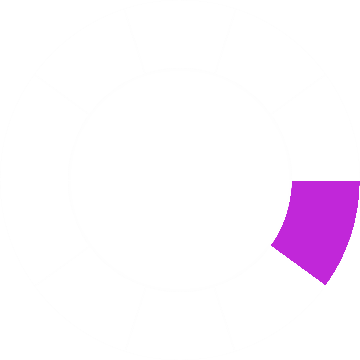
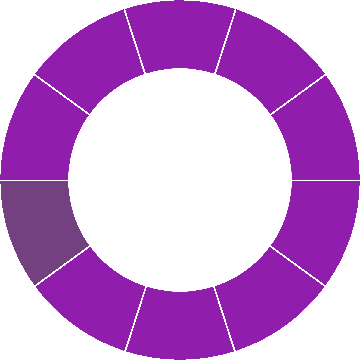
add images

diff --git a/src/view.c b/src/view.c
@@ -43,7 +43,7 @@ static struct view_info {
 	.timer = NULL,
 	.mouse_down_dial_num = -1,
 	.level = 0,
-	.total_level = 4
+	.total_level = 20
 };
 
 static struct level_info {
@@ -52,24 +52,89 @@ static struct level_info {
 } level_data[100] = {
 		{
 				.answer = 0,
-				.image = "lv1.png"
-		},
-		{
-				.answer = 1,
-				.image = "lv1.png"
+				.image = "0"
 		},
 		{
 				.answer = 2,
+				.image = "lv1.png"
+		},
+		{
+				.answer = 0,
 				.image = "lv2.png"
 		},
 		{
-				.answer = 3,
+				.answer = 7,
 				.image = "lv3.png"
 		},
 		{
-				.answer = 4,
+				.answer = 9,
 				.image = "lv4.png"
-		}
+		},
+		{
+				.answer = 3,
+				.image = "lv5.png"
+		},
+		{
+				.answer = 2,
+				.image = "lv6.png"
+		},
+		{
+				.answer = 9,
+				.image = "lv7.png"
+		},
+		{
+				.answer = 5,
+				.image = "lv8.png"
+		},
+		{
+				.answer = 6,
+				.image = "lv9.png"
+		},
+		{
+				.answer = 1,
+				.image = "lv10.png"
+		},
+		{
+				.answer = 6,
+				.image = "lv11.png"
+		},
+		{
+				.answer = 7,
+				.image = "lv12.png"
+		},
+
+		{
+				.answer = 3,
+				.image = "lv13.png"
+		},
+		{
+				.answer = 4,
+				.image = "lv14.png"
+		},
+		{
+				.answer = 8,
+				.image = "lv15.png"
+		},
+		{
+				.answer = 2,
+				.image = "lv16.png"
+		},
+		{
+				.answer = 6,
+				.image = "lv17.png"
+		},
+		{
+				.answer = 0,
+				.image = "lv18.png"
+		},
+		{
+				.answer = 6,
+				.image = "lv19.png"
+		},
+		{
+				.answer = 2,
+				.image = "lv20.png"
+		},
 };
 
 static void _win_delete_request_cb(void *data, Evas_Object *obj, void *event_info);
@@ -765,18 +830,20 @@ static void _rectangle_mouse_up_cb(void *data, Evas *e, Evas_Object *obj, void *
 	if(s_info.level == 0 || level_data[s_info.level].answer == s_info.mouse_down_dial_num) {
 		s_info.level ++;
 		if(s_info.total_level < s_info.level) {
-			view_dialer_set_entry_text(ENTRY_TEXT_SHOW, "Congratulations!");
+			view_dialer_set_entry_text(ENTRY_TEXT_SHOW, "Good Eye!");
 			s_info.level = 0;
 		} else {
 			char *image = level_data[s_info.level].image;
 			view_set_image(view_dialer_get_layout_object(), "sw.button.bg", data_get_level_full_image_path(image));
-			char levels[10] = { 0 };
-			snprintf(levels, sizeof(levels), "level %d", s_info.level);
+			char levels[100] = { 0 };
+			snprintf(levels, sizeof(levels), "Level %d", s_info.level);
 			view_dialer_set_entry_text(ENTRY_TEXT_SHOW, levels);
 		}
 
 	} else {
-		view_dialer_set_entry_text(ENTRY_TEXT_SHOW, "Game Over");
+		char levels[100] = { 0 };
+		snprintf(levels, sizeof(levels), "Your Score: %d", s_info.level);
+		view_dialer_set_entry_text(ENTRY_TEXT_SHOW, levels);
 		s_info.level = 0;
 	}
 	_dialer_text_resize(s_info.entry);
@@ -806,13 +873,12 @@ static void _dialer_text_resize(Evas_Object *entry)
 	int text_length = strlen(dial_entry);
 
 	/* Change Entry text style and size according to length */
-	if (text_length < 12)
+	if (text_length < 10)
 		elm_entry_text_style_user_push(entry, DIAL_TEXT_STYLE_NORMAL);
 	else if (text_length < 15)
 		elm_entry_text_style_user_push(entry, DIAL_TEXT_STYLE_SMALL);
 	else
 		elm_entry_text_style_user_push(entry, DIAL_TEXT_STYLE_SMALLER);
-
 	/* Set entry cursor to end for displaying last updated entry text*/
 	elm_entry_cursor_end_set(entry);
 }

diff --git a/src/main.c b/src/main.c
@@ -62,7 +62,7 @@ static bool app_create(void *user_data)
 	/* Set full size Rectangle to catch circular dial button touch */
 	view_dialer_create_rectangle();
 
-	view_dialer_set_entry_text(ENTRY_TEXT_SHOW, "type any color to start");
+	view_dialer_set_entry_text(ENTRY_TEXT_SHOW, "Type any color to start");
 
 	return true;
 }
